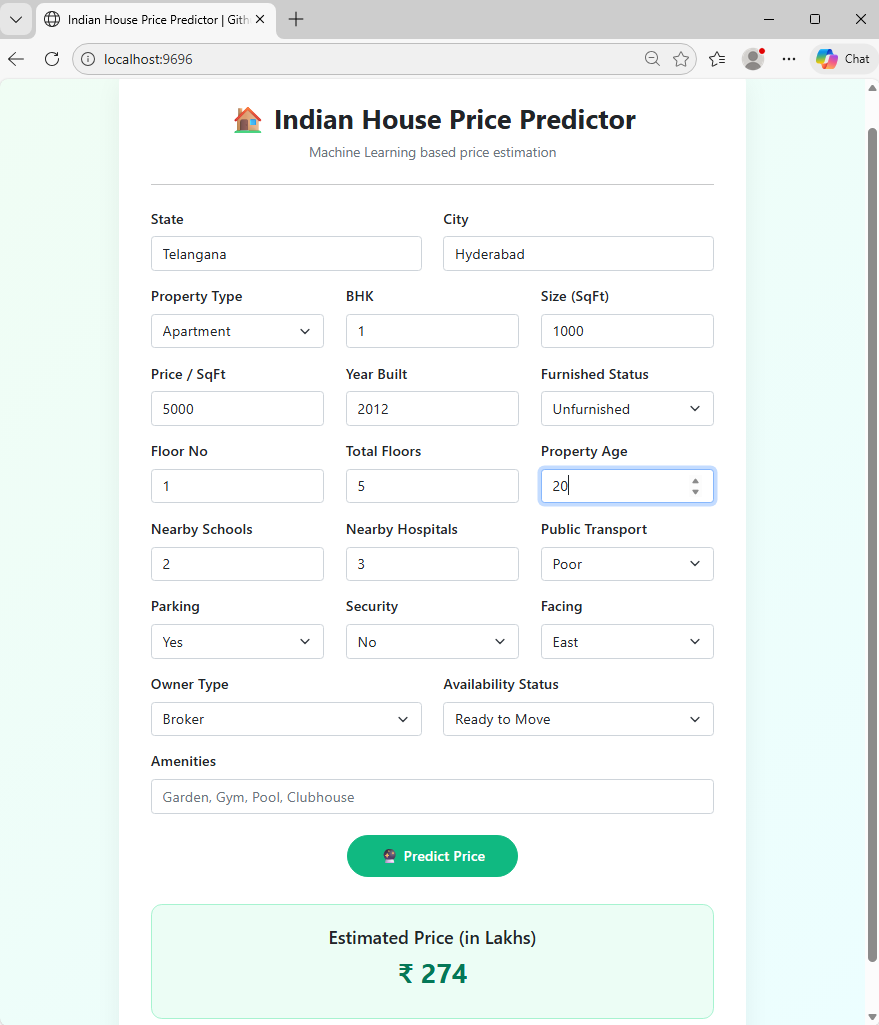
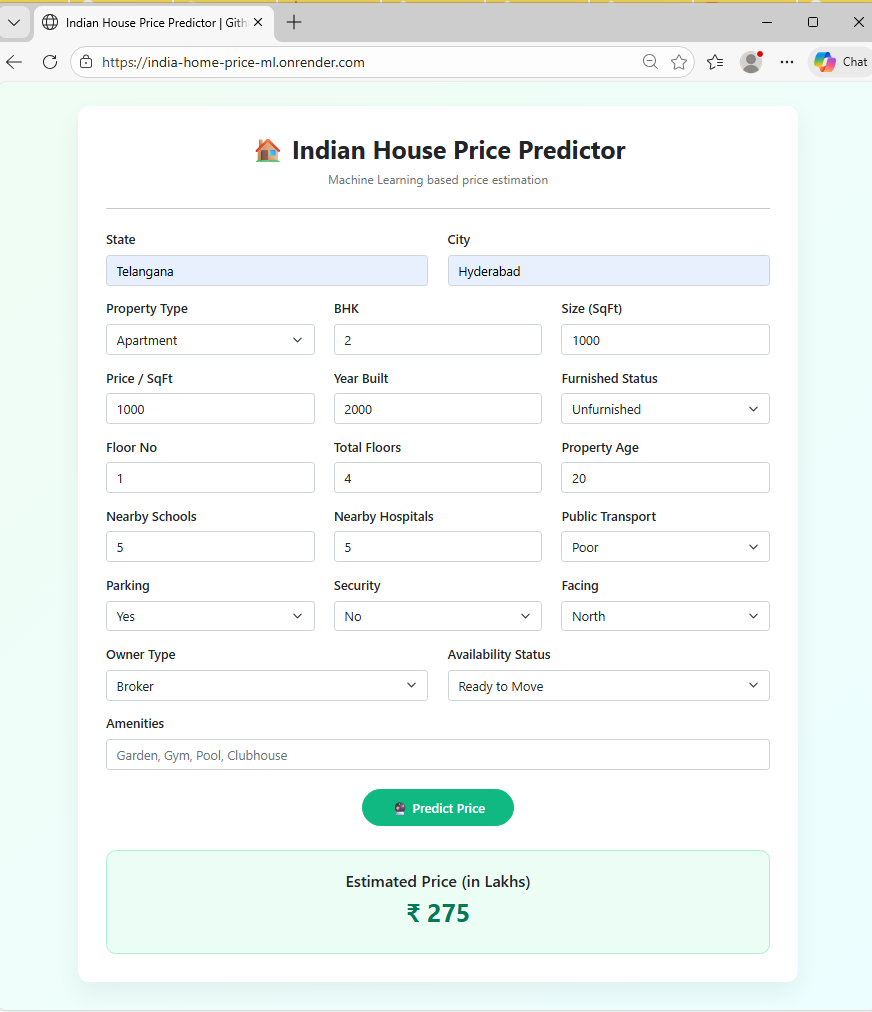
documentation updated

diff --git a/README.md b/README.md
@@ -131,7 +131,7 @@ To deploy using Docker:
 
    The model will be accessible and can get the predicted price at `http://localhost:9696/predict`.
 
-   ![Front end](https://github.com/Krishnakanth834/india-home-price-ml/blob/main/img/frontend.png)
+   ![Front end](https://github.com/Krishnakanth834/india-home-price-ml/blob/main/img/frontend_local.png)
 This Dockerfile sets up a Python 3.11 environment, installs Pipenv, and copies the required files into the container. It then exposes port 9696 and sets up the Waitress server to serve the model.
 
 
@@ -172,6 +172,14 @@ Use predict_test.py to send test queries to your model:
   ```
 
   Modify this script to format your input data as per the model's expectations.
+
+## Deployed on Cloud
+This is a machine learning-based web application for predicting house prices in India. The app is powered by a regression model that takes various house attributes (such as location, size, number of rooms, etc.) to predict the price of a house.
+
+The app is deployed on the cloud and can be accessed through the following link: 
+https://india-home-price-ml.onrender.com
+
+![Cloud Deployment](https://github.com/Krishnakanth834/india-home-price-ml/blob/main/img/frontend.png)
 
 ## Contributions
 
